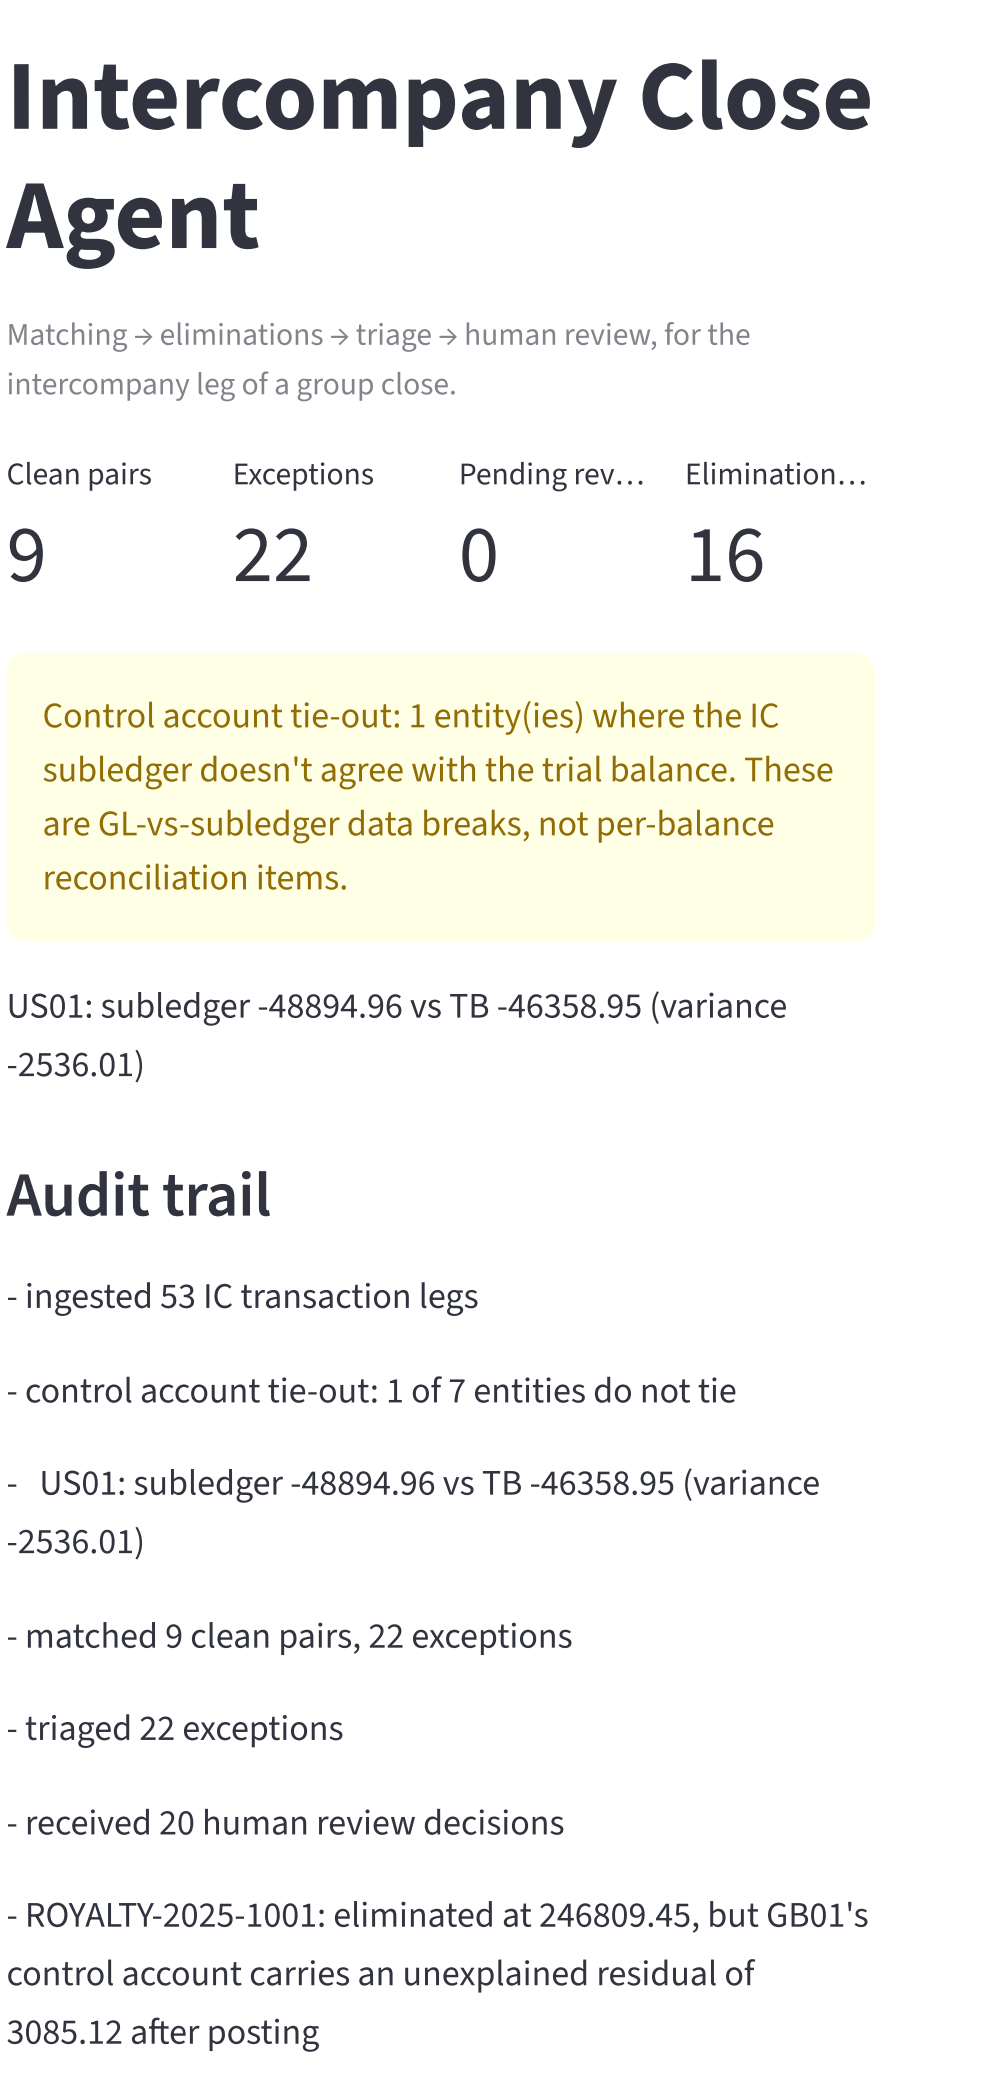
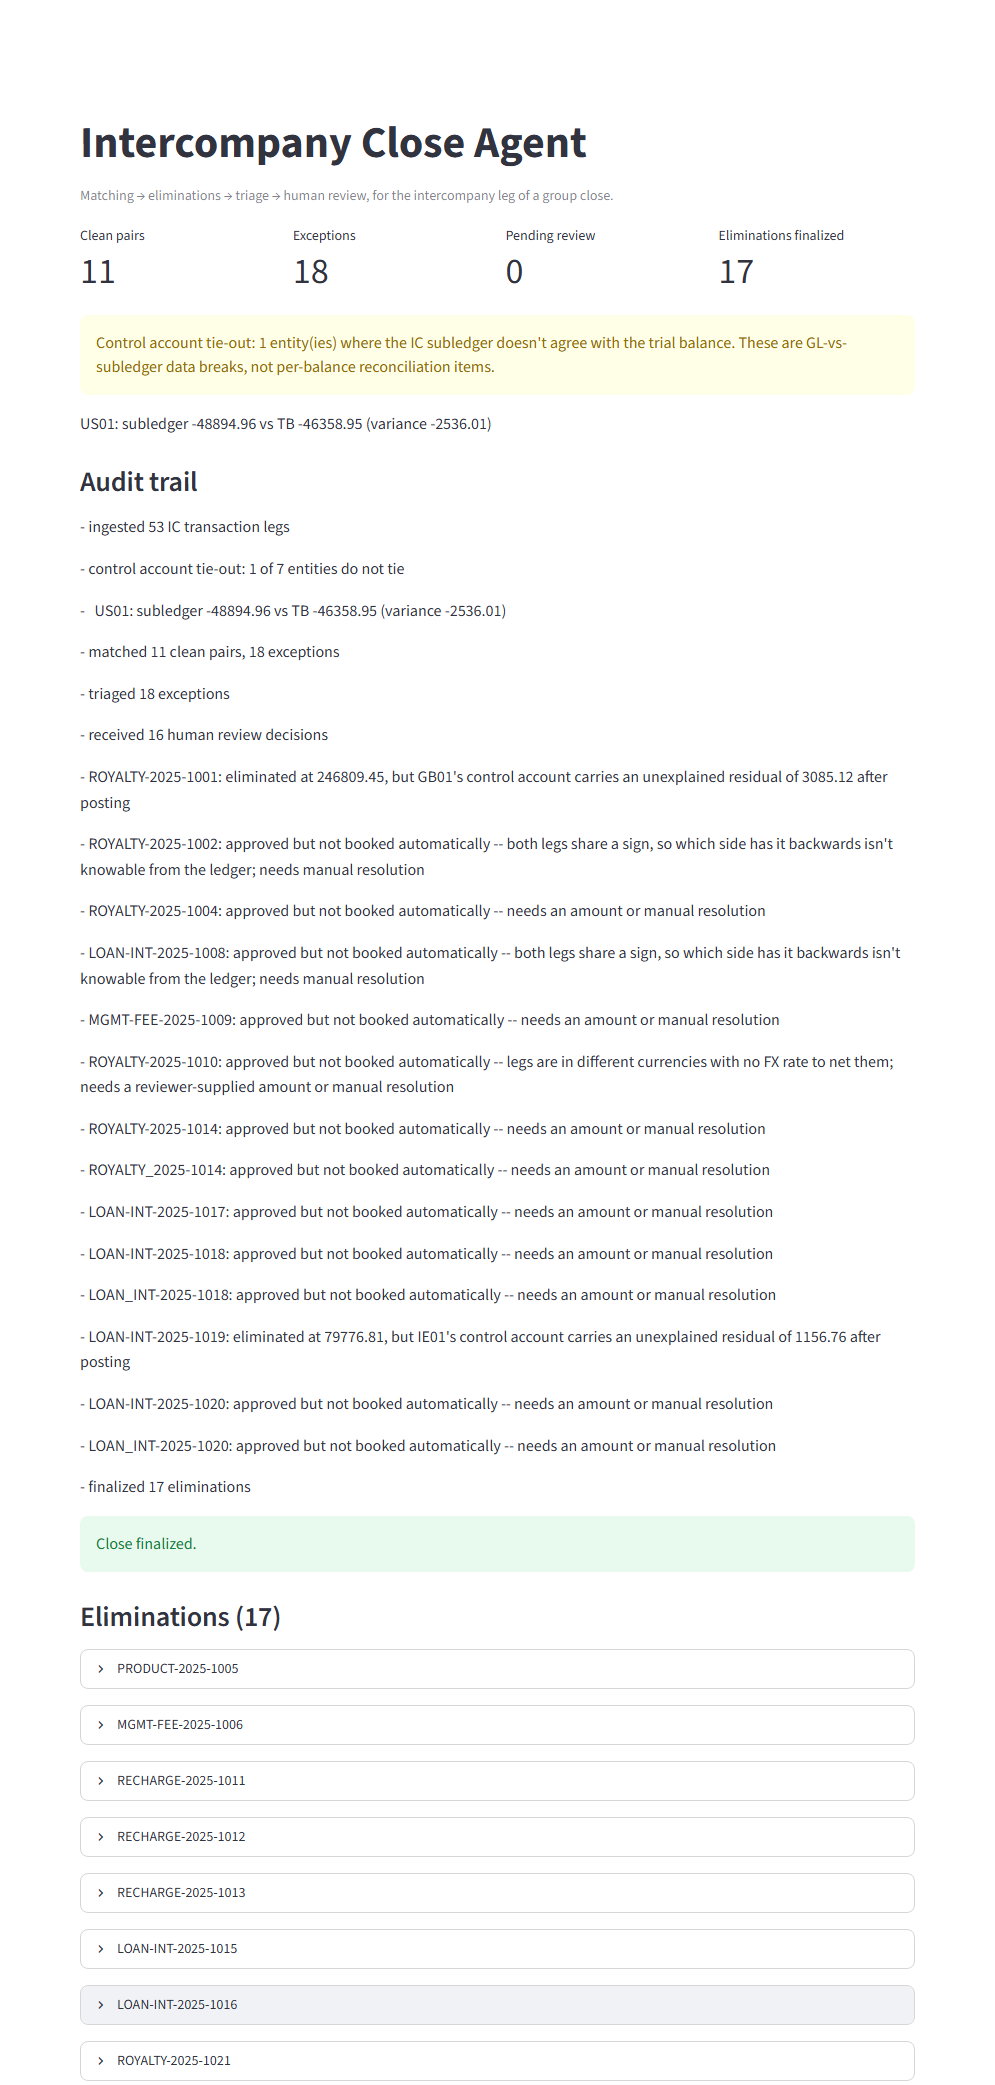
docs: refresh the dashboard screenshot for the corrected dataset
Regenerated docs/img/dashboard.png against the current synthetic data (the
non_interfaced_noise guard changed two references, so the counts moved: 11 clean
pairs, 18 exceptions, 17 eliminations finalized). Captured headless via
Playwright, driving the real Run -> Submit -> finalized flow, with the sidebar
hidden so no local filesystem path leaks and the toolbar/Deploy button stripped.

Also fixed the alt text, which still described "the worklist of exceptions
waiting on a human decision" -- the image (both the old one and this one) shows
the finalized close: the tie-out, the full audit trail, and the booked
eliminations.

diff --git a/README.md b/README.md
@@ -12,7 +12,7 @@ it's safe to run and inspect end to end. Runs fully offline by default. A
 Claude API key upgrades the triage narrative; it doesn't change what gets
 booked.
 
-![The reviewer dashboard: control account tie-out, audit trail, and the worklist of exceptions waiting on a human decision](docs/img/dashboard.png)
+![The reviewer dashboard after a finalized close: the control-account tie-out, the full audit trail with its residual notes, and the elimination journal entries the run booked](docs/img/dashboard.png)
 
 ```
 uv sync --extra dev
